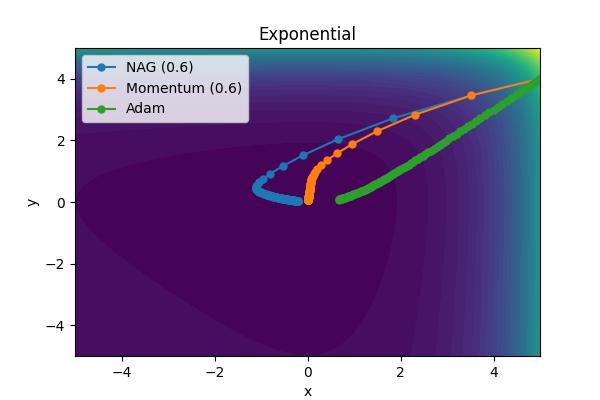
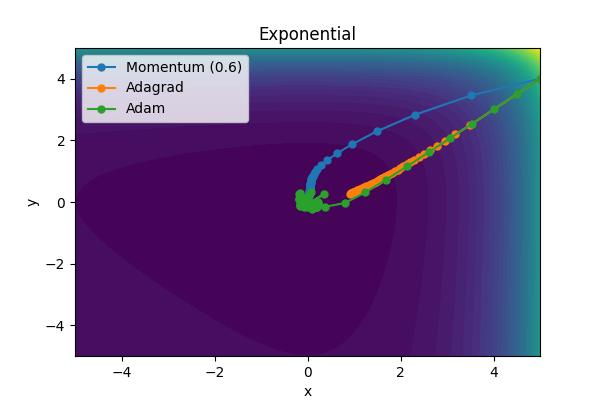
updates

Changed region(s): [[0.42, 0.18, 0.9, 0.54], [0.21, 0.21, 0.42, 0.24], [0.21, 0.15, 0.42, 0.18]]

diff --git a/Optimizers/Utils/optimizers.py b/Optimizers/Utils/optimizers.py
@@ -13,14 +13,14 @@ class Adam():
         self.beta1 = beta1
         self.beta2 = beta2
         self.epsilon = epsilon
+    
+    def simulate(self, func, iterations=10):
+        x, y = func.initial_value
         self.m_x = 0
         self.v_x = 0
         self.m_y = 0
         self.v_y = 0
         self.t = 0
-    
-    def simulate(self, func, iterations=10):
-        x, y = func.initial_value
         history = [(x, y)]
         
         for _ in range(iterations):
@@ -58,11 +58,11 @@ class Adagrad():
         self.label = label
         self.learning_rate = learning_rate
         self.epsilon = 1e-8
-        self.cumulative_gradients_x = 0
-        self.cumulative_gradients_y = 0
     
     def simulate(self, func, iterations=10):
         x, y = func.initial_value
+        self.cumulative_gradients_x = 0
+        self.cumulative_gradients_y = 0
         history = [(x, y)]
         
         for _ in range(iterations):
@@ -145,8 +145,8 @@ class NAG():
         
         for _ in range(iterations):
             # Compute gradient at future position
-            grad_x_future = (func.evaluate(x - self.momentum * v_x + eps, y - self.momentum * v_y) - func.evaluate(x - self.momentum * v_x, y - self.momentum * v_y)) / eps
-            grad_y_future = (func.evaluate(x - self.momentum * v_x, y - self.momentum * v_y + eps) - func.evaluate(x - self.momentum * v_x, y - self.momentum * v_y)) / eps
+            grad_x_future = (func.evaluate(x + self.momentum * v_x + eps, y + self.momentum * v_y) - func.evaluate(x + self.momentum * v_x, y + self.momentum * v_y)) / eps
+            grad_y_future = (func.evaluate(x + self.momentum * v_x, y + self.momentum * v_y + eps) - func.evaluate(x + self.momentum * v_x, y + self.momentum * v_y)) / eps
             
             # Update velocity
             v_x = self.momentum * v_x - self.learning_rate * grad_x_future

diff --git a/Optimizers/Adam.py b/Optimizers/Adam.py
@@ -1,16 +1,4 @@
-# -*- coding: utf-8 -*-
-"""
-Created on Sat Jun  1 21:51:32 2024
-
-@author: afisher
-"""
-
-# -*- coding: utf-8 -*-
-"""
-Created on Sat Jun  1 21:38:03 2024
-
-@author: afisher
-"""
+# %%
 
 import numpy as np
 import matplotlib.pyplot as plt
@@ -24,26 +12,28 @@ plt.close('all')
 # %%
 
 optimizers = [
-        opt.NAG(label='NAG (0.6)', momentum=0.6),
+        # opt.NAG(label='NAG (0.6)', momentum=0.6),
         opt.Momentum(label='Momentum (0.6)', momentum=0.6),
-        opt.Adam(label='Adam', learning_rate=0.1, beta1 = 0.9, beta2=0.95)
+        opt.Adagrad(label='Adagrad', learning_rate = 1.5),
+        opt.Adam(label='Adam', learning_rate=0.5, beta1 = 0.2, beta2=0.2)
     ]
 # %%
 func = cf.Quadratic()
 create_pic(func, optimizers, filename = 'quadratic_Adam.jpg')
-# create_gif(func, optimizers, filename = 'quadratic_Adam.gif')
+create_gif(func, optimizers, filename = 'quadratic_Adam.gif')
 
 # %%
 func = cf.Exponential()
 create_pic(func, optimizers, filename = 'exponential_Adam.jpg')
-# create_gif(func, optimizers, filename = 'exponential_Adam.gif')
+create_gif(func, optimizers, filename = 'exponential_Adam.gif')
 
 # %%
 func = cf.Rosenbrock(scale=0.01)
 create_pic(func, optimizers, filename = 'rosenbrock_Adam.jpg')
-# create_gif(func, optimizers, filename = 'rosenbrock_Adam.gif')
+create_gif(func, optimizers, filename = 'rosenbrock_Adam.gif')
 
 # %%
 func = cf.Ackley(scale=10)
 create_pic(func, optimizers, filename = 'ackley_Adam.jpg')
-# create_gif(func, optimizers, filename = 'ackley_Adam.gif')
+create_gif(func, optimizers, filename = 'ackley_Adam.gif')
+# %%

diff --git a/Optimizers/Adagrad.py b/Optimizers/Adagrad.py
@@ -1,16 +1,4 @@
-# -*- coding: utf-8 -*-
-"""
-Created on Sat Jun  1 21:46:24 2024
-
-@author: afisher
-"""
-
-# -*- coding: utf-8 -*-
-"""
-Created on Sat Jun  1 21:38:03 2024
-
-@author: afisher
-"""
+# %%
 
 import numpy as np
 import matplotlib.pyplot as plt
@@ -26,15 +14,26 @@ plt.close('all')
 optimizers = [
         opt.NAG(label='NAG (0.6)', momentum=0.6),
         opt.Momentum(label='Momentum (0.6)', momentum=0.6),
-        opt.Adagrad(label='Adagrad', learning_rate = 0.5),
+        opt.Adagrad(label='Adagrad', learning_rate = 1.5),
     ]
 
 # %%
 func = cf.Quadratic()
 create_pic(func, optimizers, filename = 'quadratic_Adagrad.jpg')
-# create_gif(func, optimizers, filename = 'quadratic_Adagrad.gif')
+create_gif(func, optimizers, filename = 'quadratic_Adagrad.gif')
 
 # %%
 func = cf.Exponential()
 create_pic(func, optimizers, filename = 'exponential_Adagrad.jpg')
-# create_gif(func, optimizers, filename = 'exponential_Adagrad.gif')
+create_gif(func, optimizers, filename = 'exponential_Adagrad.gif')
+
+# %%
+func = cf.Rosenbrock(scale=0.01)
+create_pic(func, optimizers, filename = 'rosenbrock_Adagrad.jpg')
+create_gif(func, optimizers, filename = 'rosenbrock_Adagrad.gif')
+
+# %%
+func = cf.Ackley(scale=10)
+create_pic(func, optimizers, filename = 'ackley_Adagrad.jpg')
+create_gif(func, optimizers, filename = 'ackley_Adagrad.gif')
+# %%

diff --git a/Optimizers/Utils/generate_figures.py b/Optimizers/Utils/generate_figures.py
@@ -13,7 +13,7 @@ import Utils.cost_functions as cf
 import Utils.optimizers as opt
 plt.close('all')
 
-def create_pic(func, optimizers, x_range=(-5, 5), y_range=(-5, 5), frames=100, filename=None):
+def create_pic(func, optimizers, x_range=(-5, 5), y_range=(-5, 5), frames=50, filename=None):
     
     # Create figure
     plt.figure(figsize=(6, 4))
